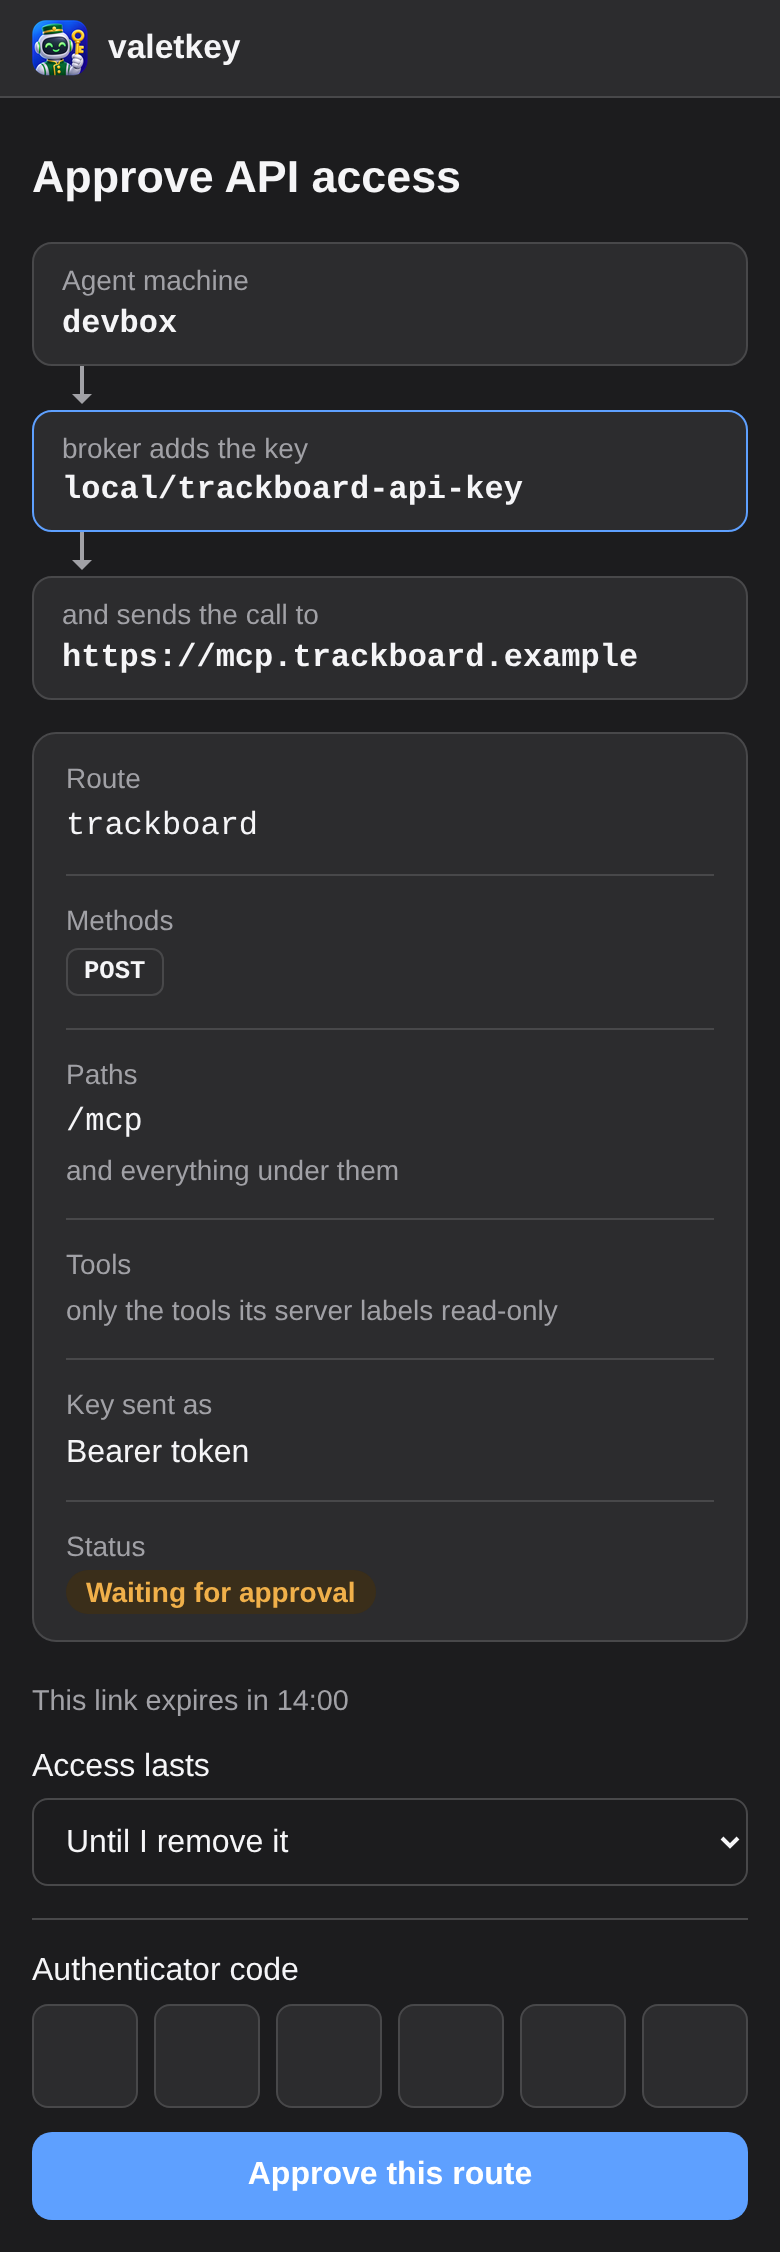
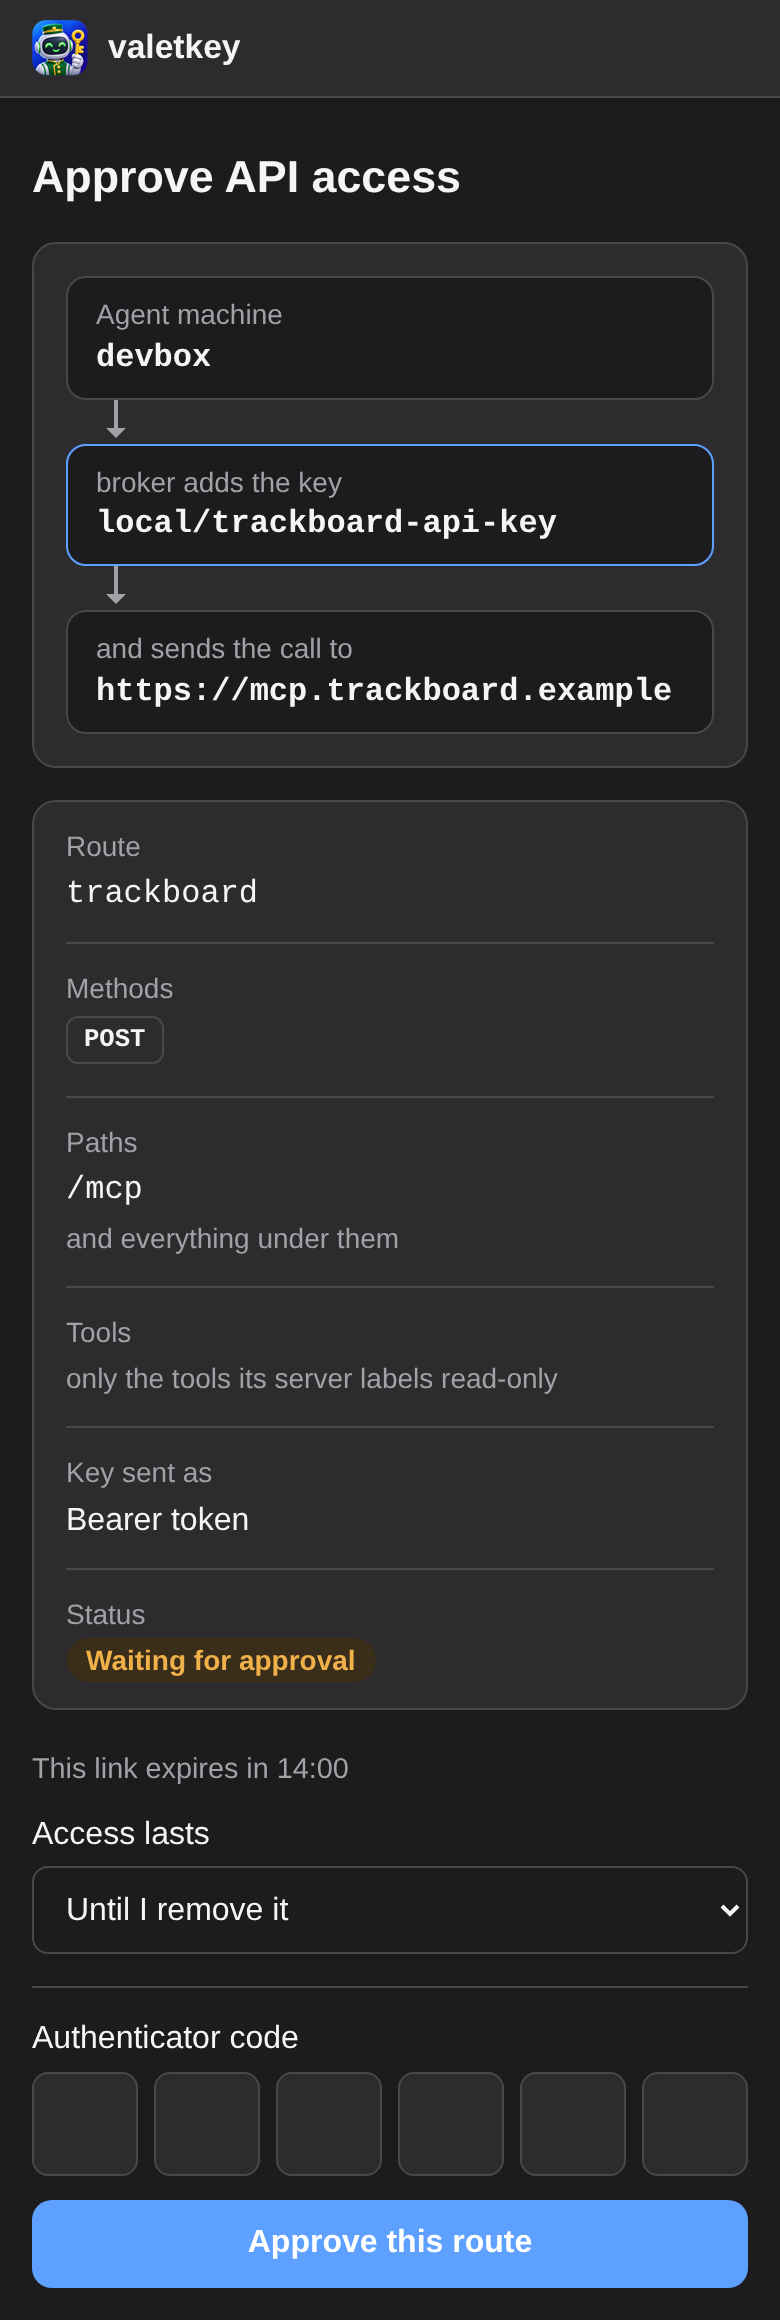
Approval page: the diagram sits in a card, like the page's other containers

diff --git a/broker/entry-page.html b/broker/entry-page.html
@@ -145,8 +145,9 @@
   }
   /* Route approval opens with a small diagram: the machine that calls, the key the broker adds,
      and where the call goes. Boxes stack on a phone and sit in a row from 600px. */
-  .flow { display: flex; flex-direction: column; margin: 0 0 16px; }
-  .flow > div { min-width: 0; padding: 8px 14px; background: var(--card); border: 1px solid var(--line);
+  .flow { display: flex; flex-direction: column; margin: 0 0 16px; padding: 16px; background: var(--card);
+          border: 1px solid var(--line); border-radius: 12px; }
+  .flow > div { min-width: 0; padding: 8px 14px; background: var(--bg); border: 1px solid var(--line);
                 border-radius: 10px; }
   .flow > .adds { border-color: var(--accent); }
   .flow .hint, .flow .id { display: block; }
